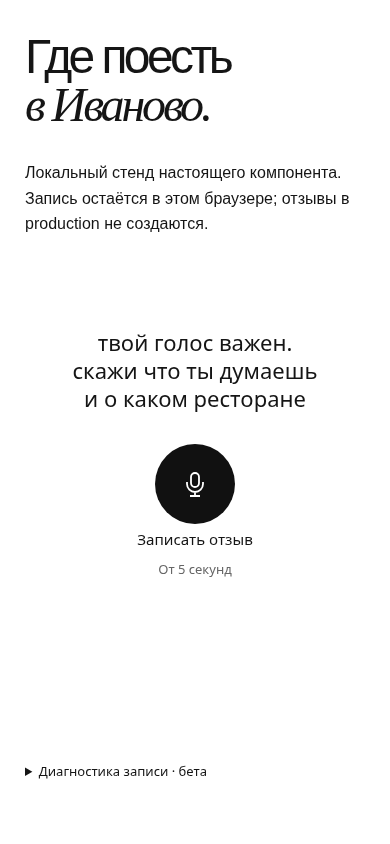
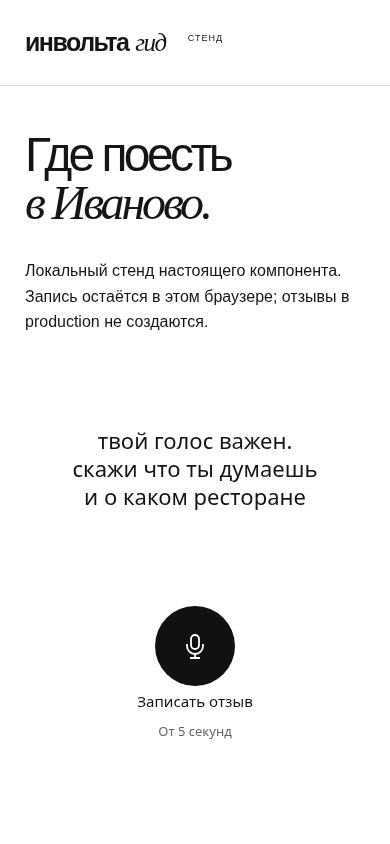
Keep the voice start gesture under the finger without browser tap highlights

diff --git a/src/involta_voice/static/widget.v1.js b/src/involta_voice/static/widget.v1.js
@@ -432,6 +432,7 @@
         reference,
         poll,
         historyPoll,
+        drag = null,
         delay = 2000,
         blocked = false;
       const style = document.createElement("style");
@@ -463,6 +464,7 @@
           text-wrap: balance;
         }
         .stage {
+          padding-block-start: 64px;
           min-block-size: 248px;
           display: grid;
           grid-template-rows: 80px 28px 28px 28px 44px;
@@ -482,9 +484,23 @@
           padding: 0;
           display: grid;
           place-items: center;
-          touch-action: manipulation;
+          touch-action: none;
+          -webkit-tap-highlight-color: transparent;
+          -webkit-user-select: none;
+          user-select: none;
+          -webkit-touch-callout: none;
+          transform: translate3d(var(--drag-x, 0px), var(--drag-y, 0px), 0);
+          transition:
+            transform 240ms cubic-bezier(0.2, 0.85, 0.3, 1.15),
+            box-shadow 180ms ease;
           cursor: pointer;
           isolation: isolate;
+        }
+        .primary.dragging {
+          transform: translate3d(var(--drag-x, 0px), var(--drag-y, 0px), 0) scale(1.03);
+          box-shadow: 0 14px 30px #0002;
+          transition: box-shadow 180ms ease;
+          will-change: transform;
         }
         .primary::before {
           content: "";
@@ -643,6 +659,17 @@
           }
           .primary.recording::before {
             transform: none;
+          }
+          .primary,
+          .primary.dragging {
+            transition: none;
+            box-shadow: none;
+          }
+          .primary.dragging {
+            transform: translate3d(var(--drag-x, 0px), var(--drag-y, 0px), 0);
+          }
+          .primary.waiting svg {
+            animation: none;
           }
         }
       `;
@@ -803,6 +830,7 @@
         const state = machine.state,
           recording = state === "recording",
           waiting = state === "starting" || state === "stopping";
+        if (!["starting", "recording"].includes(state)) resetDrag(state);
         target.dataset.voiceState = state;
         const showingPreview =
           !!blob && ["preview", "retry", "uploading"].includes(state);
@@ -1361,9 +1389,66 @@
         else if (["idle", "accepted", "error"].includes(machine.state))
           void start();
       }
+      function resetDrag(reason = "released") {
+        const previous = drag;
+        drag = null;
+        primary.classList.remove("dragging");
+        primary.style.removeProperty("--drag-x");
+        primary.style.removeProperty("--drag-y");
+        if (previous && primary.hasPointerCapture(previous.id))
+          primary.releasePointerCapture(previous.id);
+        if (previous)
+          diagnostics.mark("gesture_end", {
+            reason,
+            held_ms: performance.now() - previous.started,
+            lift_px: previous.lift,
+          });
+      }
       primary.addEventListener("pointerdown", (event) => {
-        if (!event.isPrimary || event.button !== 0) return;
+        if (!event.isPrimary || event.button !== 0 || primary.disabled || drag)
+          return;
+        if (["idle", "accepted", "error"].includes(machine.state)) {
+          // Only the original start gesture follows the finger. Its release must
+          // never activate the stop that has appeared on this same button.
+          drag = {
+            id: event.pointerId,
+            x: event.clientX,
+            y: event.clientY,
+            started: performance.now(),
+            lift: 0,
+          };
+          primary.classList.add("dragging");
+          try {
+            primary.setPointerCapture(event.pointerId);
+          } catch {
+            // Synthetic activations have no native pointer to capture.
+          }
+        }
         primaryAction();
+        if (drag)
+          diagnostics.mark("gesture_start", { pointer: event.pointerType });
+      });
+      primary.addEventListener("pointermove", (event) => {
+        if (!drag || event.pointerId !== drag.id) return;
+        const dx = event.clientX - drag.x,
+          dy = event.clientY - drag.y,
+          verticalLimit = dy < 0 ? 80 : 16;
+        drag.lift = Math.max(drag.lift, -dy);
+        // Follow small movements directly, then resist long drags. The reserved
+        // space above the circle keeps even the maximum lift clear of the request.
+        primary.style.setProperty("--drag-x", `${36 * Math.tanh(dx / 36)}px`);
+        primary.style.setProperty(
+          "--drag-y",
+          `${verticalLimit * Math.tanh(dy / verticalLimit)}px`,
+        );
+      });
+      primary.addEventListener("pointerup", (event) => {
+        if (drag?.id === event.pointerId) resetDrag();
+      });
+      primary.addEventListener("lostpointercapture", (event) => {
+        if (drag?.id !== event.pointerId) return;
+        resetDrag("capture_lost");
+        interrupt("pointer_capture_lost");
       });
       primary.addEventListener("click", (event) => {
         if (event.detail === 0) primaryAction();
@@ -1372,9 +1457,11 @@
         if (event.repeat && ["Enter", " "].includes(event.key))
           event.preventDefault();
       });
-      primary.addEventListener("pointercancel", () =>
-        interrupt("pointercancel"),
-      );
+      primary.addEventListener("pointercancel", (event) => {
+        if (drag && event.pointerId !== drag.id) return;
+        resetDrag("pointercancel");
+        interrupt("pointercancel");
+      });
       cancel.onclick = cancelAttempt;
       const escape = (event) => {
         if (event.key === "Escape" && activeCapture === instance) {
@@ -1566,6 +1653,7 @@
       }
       function unmount() {
         if (disposed) return;
+        resetDrag("unmount");
         if (machine.state === "recording") stop("unmount");
         else if (machine.state === "starting") cancelAttempt();
         disposed = true;

diff --git a/tests/e2e/test_voice_widget_ux.py b/tests/e2e/test_voice_widget_ux.py
@@ -44,7 +44,7 @@ def browser():
 @pytest.fixture
 def widget_page(browser):
     context = browser.new_context(
-        permissions=["microphone"], viewport={"width": 390, "height": 844}
+        permissions=["microphone"], viewport={"width": 390, "height": 844}, has_touch=True
     )
     context.add_init_script(FAKE_RECORDER)
     page = context.new_page()
@@ -102,6 +102,7 @@ def press(page, widget):
     widget.locator(".primary").dispatch_event(
         "pointerdown", {"isPrimary": True, "button": 0, "pointerType": "touch"}
     )
+    widget.locator(".primary").dispatch_event("pointerup")
 
 
 def state(widget, value):
@@ -110,6 +111,148 @@ def state(widget, value):
 
 def report(widget):
     return json.loads(widget.locator("details pre").first.text_content())
+
+
+def touch(cdp, kind, x=0, y=0):
+    cdp.send(
+        "Input.dispatchTouchEvent",
+        {"type": kind, "touchPoints": [] if kind == "touchEnd" else [{"x": x, "y": y, "id": 1}]},
+    )
+
+
+@pytest.mark.parametrize("hold_ms", [0, 3000, 7000])
+def test_native_upward_drag_after_holding_continues_one_recording(widget_page, hold_ms):
+    page, widget, uploads = widget_page
+    primary = widget.locator(".primary")
+    box = primary.bounding_box()
+    x, y = box["x"] + 40, box["y"] + 40
+    cdp = page.context.new_cdp_session(page)
+    primary.evaluate(
+        "e=>e.addEventListener('pointerdown',event=>window.__dragPointer=event.pointerId)"
+    )
+    if hold_ms == 7000:
+        page.emulate_media(reduced_motion="reduce")
+    touch(cdp, "touchStart", x, y)
+    state(widget, "recording")
+    page.clock.run_for(hold_ms)
+    touch(cdp, "touchMove", x + 20, y - 140)
+    offset = primary.evaluate("e=>parseFloat(e.style.getPropertyValue('--drag-y'))")
+    assert -80 < offset < -60
+    assert primary.evaluate("e=>e.hasPointerCapture(window.__dragPointer)")
+    assert (
+        primary.bounding_box()["y"]
+        >= widget.locator("h2").bounding_box()["y"] + widget.locator("h2").bounding_box()["height"]
+    )
+    assert page.evaluate("document.documentElement.scrollWidth<=innerWidth")
+    if hold_ms == 7000:
+        assert primary.evaluate("e=>getComputedStyle(e).transitionDuration") == "0s"
+    assert primary.evaluate("e=>getComputedStyle(e).webkitTapHighlightColor") == "rgba(0, 0, 0, 0)"
+    assert primary.evaluate("e=>getComputedStyle(e).touchAction") == "none"
+    touch(cdp, "touchEnd")
+    state(widget, "recording")
+    assert primary.evaluate(
+        "e=>!e.classList.contains('dragging') && !e.style.getPropertyValue('--drag-y')"
+    )
+    assert page.evaluate("__recorders.length===1 && !__recorders[0].stops")
+    assert not uploads
+    gesture = next(e for e in report(widget)["timeline"] if e["name"] == "gesture_end")
+    assert gesture["reason"] == "released" and gesture["lift_px"] == 140
+    expect(widget.get_by_text(REQUEST, exact=True)).to_be_visible()
+    page.keyboard.press("Escape")
+
+
+def test_native_drag_owns_its_touch_but_outside_scroll_does_not_stop_recording(widget_page):
+    page, widget, uploads = widget_page
+    page.add_style_tag(content="body{margin:0;min-height:4000px}")
+    events = []
+    page.expose_function("capturePointerEvent", lambda event: events.append(event))
+    primary = widget.locator(".primary")
+    primary.evaluate(
+        "e=>{for(const t of ['pointerdown','pointercancel','pointerup'])e.addEventListener(t,event=>capturePointerEvent(event.type))}"
+    )
+    box = primary.bounding_box()
+    x, y = box["x"] + 40, box["y"] + 40
+    cdp = page.context.new_cdp_session(page)
+    touch(cdp, "touchStart", x, y)
+    state(widget, "recording")
+    for delta in [20, 60, 100, 150]:
+        touch(cdp, "touchMove", x, y - delta)
+    touch(cdp, "touchEnd")
+    assert page.evaluate("scrollY") == 0
+    assert events == ["pointerdown", "pointerup"]
+    touch(cdp, "touchStart", 12, 700)
+    for delta in [20, 60, 100, 200]:
+        touch(cdp, "touchMove", 12, 700 - delta)
+    touch(cdp, "touchEnd")
+    assert page.evaluate("scrollY") > 0
+    state(widget, "recording")
+    assert not uploads
+    page.keyboard.press("Escape")
+
+
+def test_late_permission_drag_release_never_cancels_or_restarts_capture(widget_page):
+    page, widget, uploads = widget_page
+    page.evaluate("window.__delayPermission=true")
+    primary = widget.locator(".primary")
+    box = primary.bounding_box()
+    x, y = box["x"] + 40, box["y"] + 40
+    cdp = page.context.new_cdp_session(page)
+    touch(cdp, "touchStart", x, y)
+    state(widget, "starting")
+    wait_expression(page, "!!window.__latePermission")
+    page.clock.run_for(7000)
+    touch(cdp, "touchMove", x, y - 140)
+    touch(cdp, "touchEnd")
+    state(widget, "starting")
+    page.evaluate("__latePermission();window.__delayPermission=false")
+    state(widget, "recording")
+    assert page.evaluate("__recorders.length") == 1
+    assert not uploads
+    page.keyboard.press("Escape")
+
+
+def test_lost_capture_resets_drag_and_finalizes_valid_audio_once(widget_page):
+    page, widget, uploads = widget_page
+    primary = widget.locator(".primary")
+    primary.dispatch_event("pointerdown", {"isPrimary": True, "button": 0, "pointerId": 4})
+    state(widget, "recording")
+    page.clock.run_for(5100)
+    primary.dispatch_event("pointermove", {"pointerId": 4, "clientY": -120})
+    primary.dispatch_event("lostpointercapture", {"pointerId": 4})
+    primary.dispatch_event("pointercancel", {"pointerId": 4})
+    page.clock.run_for(1)
+    state(widget, "preview")
+    assert page.evaluate("__recorders[0].stops") == 1
+    assert not primary.evaluate("e=>e.classList.contains('dragging')")
+    assert not uploads
+
+
+@pytest.mark.parametrize("ending", ["escape", "limit", "unmount"])
+def test_ending_while_finger_is_held_releases_capture_without_restarting(widget_page, ending):
+    page, widget, uploads = widget_page
+    primary = widget.locator(".primary")
+    box = primary.bounding_box()
+    cdp = page.context.new_cdp_session(page)
+    primary.evaluate(
+        "e=>{window.__heldButton=e;e.addEventListener('pointerdown',event=>window.__heldPointer=event.pointerId)}"
+    )
+    touch(cdp, "touchStart", box["x"] + 40, box["y"] + 40)
+    state(widget, "recording")
+    page.clock.run_for(5100)
+    if ending == "escape":
+        page.keyboard.press("Escape")
+    elif ending == "limit":
+        page.clock.fast_forward(120000)
+    else:
+        page.evaluate("InvoltaVoice.unmount('a')")
+    page.clock.run_for(1)
+    touch(cdp, "touchEnd")
+    assert page.evaluate(
+        "!__heldButton.hasPointerCapture(__heldPointer) && !__heldButton.classList.contains('dragging')"
+    )
+    assert page.evaluate("__recorders.length===1 && __recorders[0].stops===1")
+    assert page.evaluate("__streams.every(s=>s.getTracks().every(t=>t.readyState==='ended'))")
+    assert not uploads
 
 
 def test_gate_exact_pause_reset_unknown_frames_and_no_speech(widget_page):

diff --git a/docs/VOICE_WIDGET_UX_IMPLEMENTATION.md b/docs/VOICE_WIDGET_UX_IMPLEMENTATION.md
@@ -5,6 +5,44 @@
 режимов. Основная просьба дословно остаётся над управлением во всех состояниях.
 Один SDK и один виджет на странице локации; standalone embed сохранён.
 
+## Мобильное уточнение: подсветка и движение кружка
+
+Реализовано по решению владельца после проверки Opera, от main `67c1db6` с уже
+внедрённым упрощением беты. Одно касание сразу начинает ту же запись. Не отпуская
+палец, можно потянуть круг вверх — сразу или через несколько секунд удержания.
+Отпускание возвращает круг, не останавливая запись; стоп — следующее отдельное
+нажатие. Нет нового режима, замка или автоматической отправки.
+
+Только на основной кнопке заданы `touch-action: none`, прозрачный
+`-webkit-tap-highlight-color`, запрет выделения/системного callout. Pointer capture
+оставляет движение у кнопки за её границами; жесты вне кнопки прокручивают страницу.
+Нормальное отпускание capture не считается прерыванием; настоящая неожиданная
+потеря/cancel безопасно завершают запись. Дополнительные пальцы не запускают её заново.
+На мобильной эмуляции исходная браузерная подсветка была
+`rgba(51, 181, 229, 0.4)`, теперь `rgba(0, 0, 0, 0)`.
+
+Круг следует через transform с сопротивлением: вверх до 80 px, в стороны до 36 px,
+вниз до 16 px, небольшое увеличение и тень при удержании. Над ним зарезервирован
+зазор 64 px; текст/таймер не перемещаются и не перекрываются кругом. После отпускания
+возврат занимает 240 мс. Reduced motion отключает пружину/масштабирование и
+необходимость анимации ожидания, оставляя непосредственное следование.
+В существующей диагностике — `gesture_start`, `gesture_end`, причина завершения,
+длительность удержания и максимальный ход вверх; кадры движения не засоряют журнал.
+
+Локально прошли **27 браузерных проверок** (UX и native embed), Ruff/format/mypy,
+node --check и проверка pinned assets. CDP посылает настоящие touch-события:
+движение после удержания 0/3/7 с, позднее разрешение, отпускание без повторного
+действия, scroll снаружи, capture loss, отмена/лимит/unmount при удерживаемом пальце,
+reduced motion. Сохранены тесты диагностики, IndexedDB, идемпотентности и сброса
+content_epoch. Полный CI текущего HEAD указан в PR.
+
+На стенде настоящий MediaRecorder и Silero с синтетическим русским input: одна
+запись, движение вверх через 3 с, отпускание, ручной стоп, прослушивание. Отправок
+ноль; browser errors нет. Скриншоты ниже пересняты для актуального виджета.
+**Это Chromium 154/Linux, не физическая Opera/Android или iPhone.**
+
+![Мобильный жест на реальном компоненте стенда](screenshots/voice-widget/touch-drag-mobile.gif)
+
 ## Стенд без production и платных вызовов
 
 ```sh
@@ -98,10 +136,10 @@ Recorder стартует до анализа. AudioContext/VAD инициали
 - Скриншоты 1440×1000 и 390×844: центр круга в пределах 1 px от оси viewport,
   одна позиция/размер в idle/recording, отсутствие горизонтальной прокрутки.
 
-### Наблюдения стенда, не замеры телефонов
+### Наблюдения исходного стенда, не замеры телефонов
 
 Chromium 154 на Linux, автоматическое разрешение и тестовый audio input. Десять
-коротких циклов. `controls_painted` — ближайший rAF после смены DOM, прокси отклика,
+коротких циклов исходной реализации до уточнения жеста. `controls_painted` — ближайший rAF после смены DOM, прокси отклика,
 а не измерение физических пикселей дисплея. p95 здесь описательный при n=10.
 
 | Интервал | p50, мс | p95, мс |
@@ -136,6 +174,7 @@ TaskDuration основного потока вкладки — около 9% о
 | --- | --- | --- |
 | Idle | ![Idle desktop](screenshots/voice-widget/idle-desktop.png) | ![Idle mobile](screenshots/voice-widget/idle-mobile.png) |
 | Запись | ![Recording desktop](screenshots/voice-widget/recording-desktop.png) | ![Recording mobile](screenshots/voice-widget/recording-mobile.png) |
+| Удержание и движение вверх | ![Dragging desktop](screenshots/voice-widget/dragging-desktop.png) | ![Dragging mobile](screenshots/voice-widget/dragging-mobile.png) |
 | Прослушивание | ![Preview desktop](screenshots/voice-widget/preview-desktop.png) | ![Preview mobile](screenshots/voice-widget/preview-mobile.png) |
 
 ## Совмещение с упрощением ядра (PR20)
